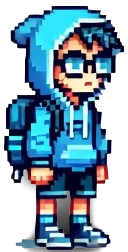
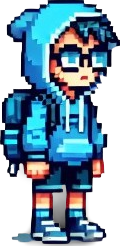
Basic Game Function Completed

diff --git a/game.py b/game.py
@@ -35,11 +35,11 @@ class Student(pygame.sprite.Sprite):
         super().__init__() # Inherit the parent class properties 
 
         # Player Image
-        self.image = pygame.image.load("coding_boy.png")
+        self.image = pygame.image.load("coding_boy.png").convert_alpha()
         self.image = pygame.transform.scale(self.image, (40, 80))
         self.rect = self.image.get_rect()
         self.rect.x = SCREEN_WIDTH // 8
-        self.rect.y = SCREEN_HEIGHT - 130
+        self.rect.y = SCREEN_HEIGHT - 127
 
         # Jumping Variables
         self.is_jumping = False
@@ -62,8 +62,8 @@ class Student(pygame.sprite.Sprite):
         if self.is_jumping:
             self.velocity += 1
             self.rect.y += self.velocity
-            if self.rect.y >= SCREEN_HEIGHT - 130:
-                self.rect.y = SCREEN_HEIGHT - 130
+            if self.rect.y >= SCREEN_HEIGHT - 127:
+                self.rect.y = SCREEN_HEIGHT - 127
                 self.is_jumping = False
                 self.velocity = 0
 
@@ -72,21 +72,21 @@ class Obstacle(pygame.sprite.Sprite):
     def __init__(self, type):
         super().__init__()
         self.type = type
-        if type == "homework":
-            self.image = pygame.Surface((30, 30))
-            self.image.fill(RED)
+        if type == "smallvirus":
+            self.image = pygame.image.load("virus.png").convert_alpha()
+            self.image = pygame.transform.scale(self.image, (55, 45))
             self.rect = self.image.get_rect()
             self.rect.y = SCREEN_HEIGHT - 100
-        elif type == "locker":
-            self.image = pygame.Surface((30, 75))
-            self.image.fill(RED)
+        elif type == "bigvirus":
+            self.image = pygame.image.load("virus.png").convert_alpha()
+            self.image = pygame.transform.scale(self.image, (70, 60))
+            self.rect = self.image.get_rect()
+            self.rect.y = SCREEN_HEIGHT - random.randint(110,150)
+        elif type == "cloud_error":
+            self.image = pygame.image.load("cloud_error.png").convert_alpha()
+            self.image = pygame.transform.scale(self.image, (100, 50))
             self.rect = self.image.get_rect()
             self.rect.y = SCREEN_HEIGHT - 250
-        elif type == "backpack":
-            self.image = pygame.Surface((40, 40))
-            self.image.fill(RED)
-            self.rect = self.image.get_rect()
-            self.rect.y = SCREEN_HEIGHT - 100
         self.rect.x = SCREEN_WIDTH
 
     def update(self):
@@ -159,8 +159,8 @@ def main():
 
             # Spawn Obstacles
             obstacle_timer += 1
-            if len(obstacles.sprites()) <= 2 and random.randint(0, 100) < 10 and obstacle_timer > 30:
-                obstacle_type = random.choice(["homework", "locker", "backpack"])
+            if len(obstacles.sprites()) <= 2 and random.randint(0, 100) < 10 and obstacle_timer > 20:
+                obstacle_type = random.choice(["smallvirus", "bigvirus", "cloud_error"])
                 obstacle = Obstacle(obstacle_type)
                 all_sprites.add(obstacle)
                 obstacles.add(obstacle)
